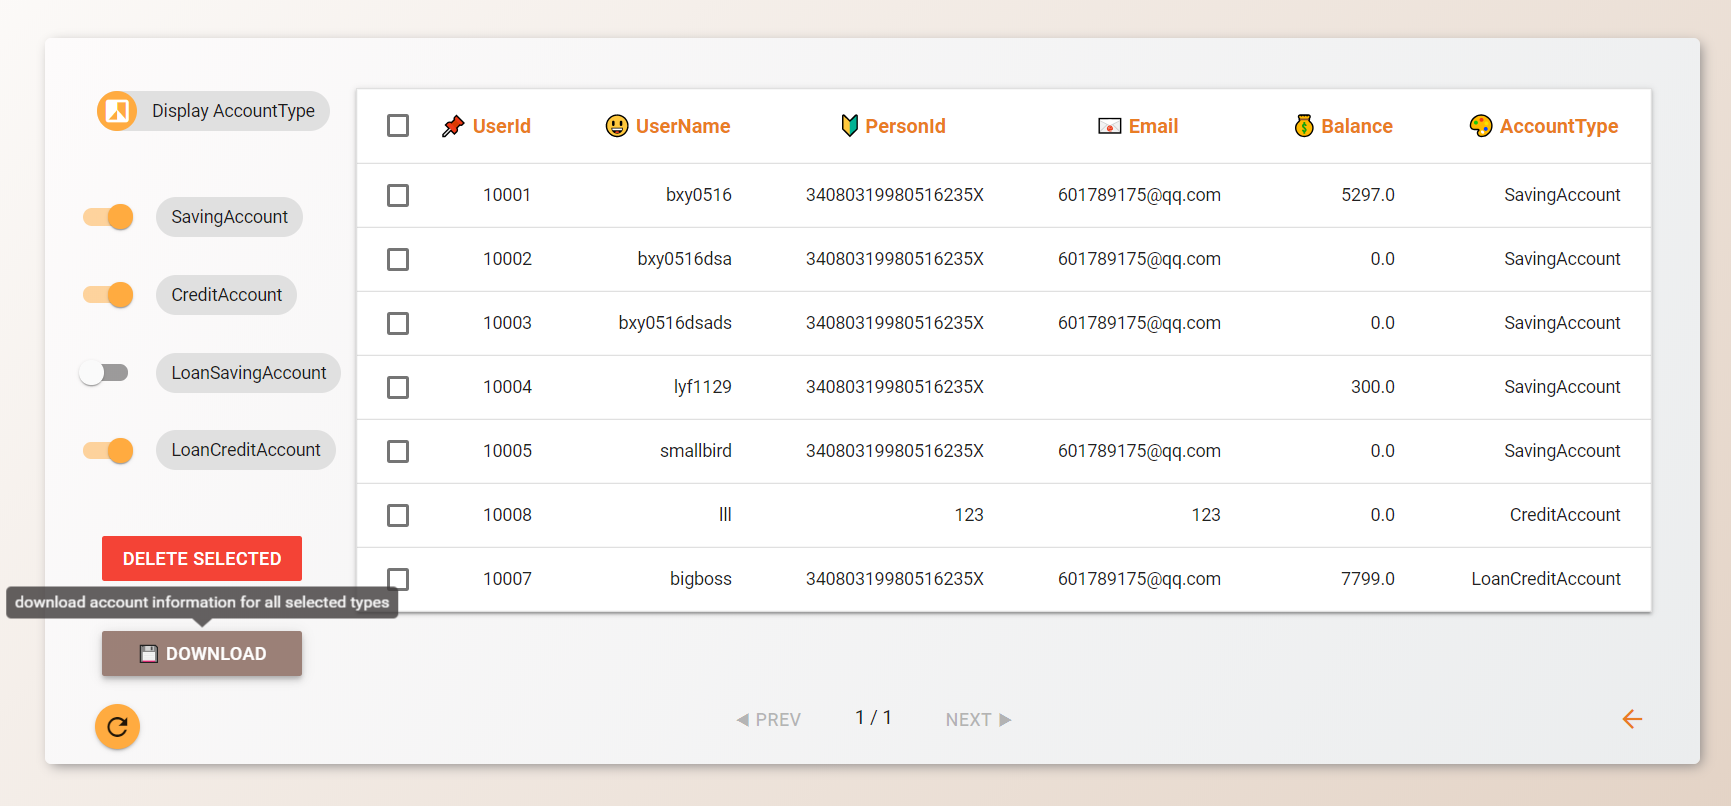
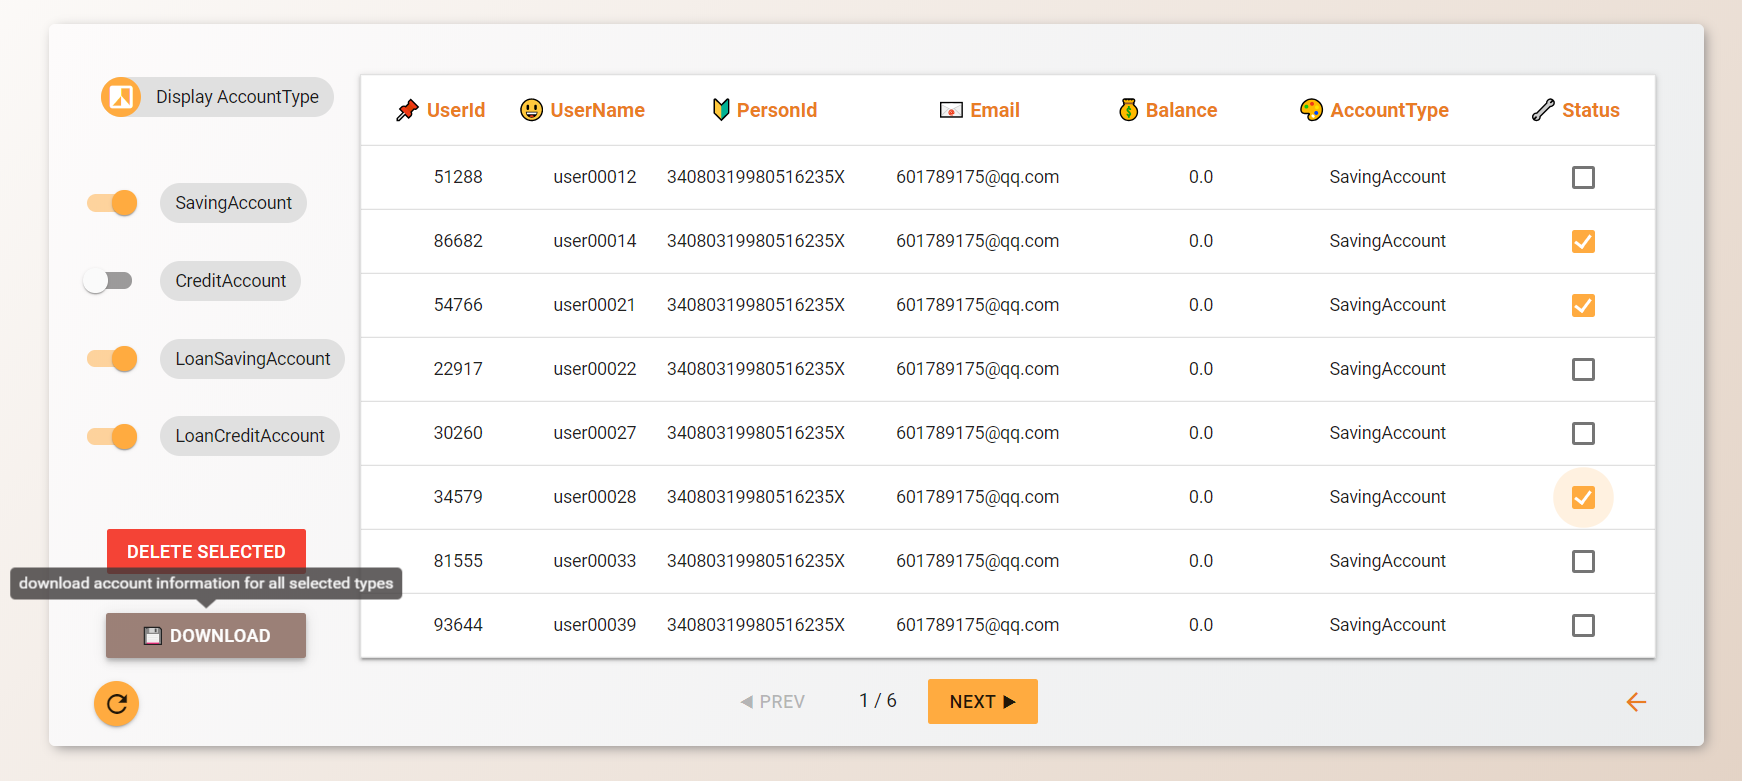
实现批量删除

diff --git a/src/main/java/cn/ayahiro/manager/controller/ManageController.java b/src/main/java/cn/ayahiro/manager/controller/ManageController.java
@@ -1,12 +1,16 @@
 package cn.ayahiro.manager.controller;
 
+import cn.ayahiro.manager.model.Account;
 import cn.ayahiro.manager.model.formbean.ConditionBean;
 import cn.ayahiro.manager.service.LoginService;
+import cn.ayahiro.manager.service.RegisterService;
 import org.springframework.stereotype.Controller;
 import org.springframework.ui.Model;
 import org.springframework.web.bind.annotation.*;
 
 import javax.annotation.Resource;
+import java.util.ArrayList;
+import java.util.List;
 
 @Controller
 public class ManageController {
@@ -14,15 +18,21 @@ public class ManageController {
     @Resource(name = "loginService")
     private LoginService loginService;
 
+    @Resource(name = "registerService")
+    private RegisterService registerService;
+
     private static final int PAGE_SIZE = 8;
+
+    private static int nowPageNum;
 
     public static ConditionBean conditionBean = new ConditionBean(true, true, true, true);
 
     @RequestMapping(path = {"/management"}, method = RequestMethod.GET)
     public String management(@RequestParam(value = "pageNum", defaultValue = "1") int pageNum, Model model) {
+        nowPageNum = pageNum;
         double totalPageNum = Math.ceil((double) loginService.getAllUsersByType(conditionBean).size() / (double) PAGE_SIZE);
-        model.addAttribute("accountList", loginService.getUsersByPage((pageNum - 1) * PAGE_SIZE, PAGE_SIZE, conditionBean))
-                .addAttribute("nowPageNum", pageNum)
+        model.addAttribute("accountList", loginService.getUsersByPage((nowPageNum - 1) * PAGE_SIZE, PAGE_SIZE, conditionBean))
+                .addAttribute("nowPageNum", nowPageNum)
                 .addAttribute("totalPageNum", (int) totalPageNum)
                 .addAttribute("conditionBean", conditionBean);
         return "management";
@@ -50,13 +60,14 @@ public class ManageController {
                     conditionBean.setIsChooseLCA(true);
                     break;
             }
-            System.out.println(type);
+            //System.out.println(type);
         }
         double totalPageNum = Math.ceil((double) loginService.getAllUsersByType(conditionBean).size() / (double) PAGE_SIZE);
-        int nowPageNum = 1;
-        if (conditionBean.isEmpty())
+        nowPageNum = 1;
+        List<Account> showAccountList = loginService.getUsersByPage(0, PAGE_SIZE, conditionBean);
+        if (conditionBean.isEmpty() || showAccountList.size()==0)
             nowPageNum = 0;
-        model.addAttribute("accountList", loginService.getUsersByPage(0, PAGE_SIZE, conditionBean))
+        model.addAttribute("accountList", showAccountList)
                 .addAttribute("nowPageNum", nowPageNum)
                 .addAttribute("totalPageNum", (int) totalPageNum)
                 .addAttribute("conditionBean", conditionBean);
@@ -64,16 +75,22 @@ public class ManageController {
     }
 
     @RequestMapping(path = {"/delete_management"}, method = RequestMethod.POST)
-    public String deleteManagement(@RequestParam(value = "selectStatus", defaultValue = "") String[] selectStatus, Model model) {
-        for (String s : selectStatus) {
-            System.out.println(s);
+    public String deleteManagement(@RequestParam(value = "selectStatus", defaultValue = "") int[] selectStatus, Model model) {
+        List<Account> accountList = loginService.getUsersByPage((nowPageNum - 1) * PAGE_SIZE, PAGE_SIZE, conditionBean);
+        for (int i = 0; i < accountList.size(); i++) {
+            for (int index : selectStatus) {
+                if (index == i) {
+                    Account user = accountList.get(i);
+                    registerService.deleteUserByUserName(user.getAccountType(), user.getUserName());
+                    registerService.deleteBeanByUserName(user.getUserName());
+                }
+            }
         }
         double totalPageNum = Math.ceil((double) loginService.getAllUsersByType(conditionBean).size() / (double) PAGE_SIZE);
-        int nowPageNum = 1;
-        if (conditionBean.isEmpty())
-            nowPageNum = 0;
-        model.addAttribute("accountList", loginService.getUsersByPage(0, PAGE_SIZE, conditionBean))
-                .addAttribute("nowPageNum", nowPageNum)
+
+        List<Account> showAccountList = loginService.getUsersByPage(0, PAGE_SIZE, conditionBean);
+        model.addAttribute("accountList", showAccountList)
+                .addAttribute("nowPageNum", showAccountList.size() == 0 ? 0 : 1)
                 .addAttribute("totalPageNum", (int) totalPageNum)
                 .addAttribute("conditionBean", conditionBean);
         return "management";

diff --git a/src/test/java/cn/ayahiro/manager/service/RegisterServiceTest.java b/src/test/java/cn/ayahiro/manager/service/RegisterServiceTest.java
@@ -1,0 +1,40 @@
+package cn.ayahiro.manager.service;
+
+import cn.ayahiro.manager.mapper.AccountMapper;
+import cn.ayahiro.manager.mapper.AllowCheckBeanMapper;
+import cn.ayahiro.manager.utils.UserUtil;
+import org.junit.Test;
+import org.junit.runner.RunWith;
+import org.springframework.boot.test.context.SpringBootTest;
+import org.springframework.test.context.junit4.SpringRunner;
+
+import javax.annotation.Resource;
+import java.util.Random;
+
+@RunWith(SpringRunner.class)
+@SpringBootTest
+public class RegisterServiceTest {
+    @Resource(name = "accountMapper")
+    private AccountMapper accountMapper;
+    @Resource(name = "allowCheckBeanMapper")
+    private AllowCheckBeanMapper allowCheckBeanMapper;
+
+    private String[] acType = {"CreditAccount", "LoanCreditAccount", "SavingAccount", "LoanSavingAccount"};
+
+    @Test
+    public void register() throws Exception {
+        for (int i = 0; i < 56; ++i) {
+            int type = new Random().nextInt(4);
+            String accountType = acType[type];
+            long userId = UserUtil.makeId();
+            String passWord = "qqqqq";
+            String personId = "34080319980516235X";
+            String userName = "user000" + i;
+            String email = "601789175@qq.com";
+            String address = "some";
+            allowCheckBeanMapper.registerBean(userName, 0, true, "user", "update");
+            accountMapper.register(accountType, userId, UserUtil.getMD5(passWord), personId, userName, email, address, 0);
+        }
+
+    }
+}

diff --git a/src/test/java/cn/ayahiro/manager/service/LoginServiceTest.java b/src/test/java/cn/ayahiro/manager/service/LoginServiceTest.java
@@ -28,20 +28,20 @@ public class LoginServiceTest {
 
     @Test
     public void getAllUsers() {
-        List<Account> accountList=new ArrayList<>();
-        if (savingAccountMapper.getAllUsers().size()!=0){
+        List<Account> accountList = new ArrayList<>();
+        if (savingAccountMapper.getAllUsers().size() != 0) {
             accountList.addAll(savingAccountMapper.getAllUsers());
         }
-        if (creditAccountMapper.getAllUsers().size()!=0){
+        if (creditAccountMapper.getAllUsers().size() != 0) {
             accountList.addAll(creditAccountMapper.getAllUsers());
         }
-        if (loanSavingAccountMapper.getAllUsers().size()!=0){
+        if (loanSavingAccountMapper.getAllUsers().size() != 0) {
             accountList.addAll(loanSavingAccountMapper.getAllUsers());
         }
-        if (loanCreditAccountMapper.getAllUsers().size()!=0){
+        if (loanCreditAccountMapper.getAllUsers().size() != 0) {
             accountList.addAll(loanCreditAccountMapper.getAllUsers());
         }
-        for (Account account: accountList){
+        for (Account account : accountList) {
             System.out.println(account.toString());
         }
     }

diff --git a/src/main/java/cn/ayahiro/manager/mapper/AllowCheckBeanMapper.java b/src/main/java/cn/ayahiro/manager/mapper/AllowCheckBeanMapper.java
@@ -25,4 +25,7 @@ public interface AllowCheckBeanMapper {
     @Insert("INSERT INTO AllowCheckBean (userName, missNum, isAllow, role, permission) VALUES (#{userName},#{missNum},#{isAllow},#{role},#{permission})")
     void registerBean(@Param("userName") String userName, @Param("missNum") int missNum, @Param("isAllow") boolean isAllow,
                       @Param("role") String role, @Param("permission") String permission);
+
+    @Delete("DELETE FROM AllowCheckBean WHERE userName= #{userName}")
+    void deleteBean(@Param("userName") String username);
 }

diff --git a/src/main/java/cn/ayahiro/manager/service/RegisterService.java b/src/main/java/cn/ayahiro/manager/service/RegisterService.java
@@ -148,4 +148,12 @@ public class RegisterService {
     public void registerBean(String userName, int missNum, boolean isAllow, String role, String permission) {
         allowCheckBeanMapper.registerBean(userName, missNum, isAllow, role, permission);
     }
+
+    public void deleteUserByUserName(String userName, String accountType) {
+        accountMapper.deleteUser(userName, accountType);
+    }
+
+    public void deleteBeanByUserName(String userName) {
+        allowCheckBeanMapper.deleteBean(userName);
+    }
 }

diff --git a/src/main/java/cn/ayahiro/manager/mapper/AccountMapper.java b/src/main/java/cn/ayahiro/manager/mapper/AccountMapper.java
@@ -28,4 +28,8 @@ public interface AccountMapper {
     @Update("UPDATE ${accountType} SET loan= #{amount} WHERE userName= #{userName}")
     void upDateLoan(@Param("accountType") String accountType,
                     @Param("userName") String username, @Param("amount") double amount);
+
+    @Delete("DELETE FROM ${accountType} WHERE userName= #{userName}")
+    void deleteUser(@Param("accountType") String accountType, @Param("userName") String username);
+
 }

diff --git a/src/test/java/cn/ayahiro/manager/service/MailServiceTest.java b/src/test/java/cn/ayahiro/manager/service/MailServiceTest.java
@@ -23,8 +23,8 @@ public class MailServiceTest {
     private JavaMailSender mailSender;
 
     @Test
-    public void sendSimpleMail(){
-        String content = "这是一封测试邮件"+ new Date().toString();
+    public void sendSimpleMail() {
+        String content = "这是一封测试邮件" + new Date().toString();
         SimpleMailMessage message = new SimpleMailMessage();
         message.setFrom(from);
         message.setTo("601789175@qq.com");

diff --git a/README.md b/README.md
@@ -16,7 +16,7 @@
 8. 注册时需要邮箱验证码 --> 已实现
 9. 初步集成shiro作api权限控制
 10. 添加Excel下载功能, 导出账户信息
-11. pagehelper插件使用失败= =，无奈用stream的操作手动模拟了个伪分页效果，待实现批量删除
+11. pagehelper插件使用失败= =，无奈用stream的操作手动模拟了个伪分页效果，可批量删除
 
 ## 页面效果
 ---
